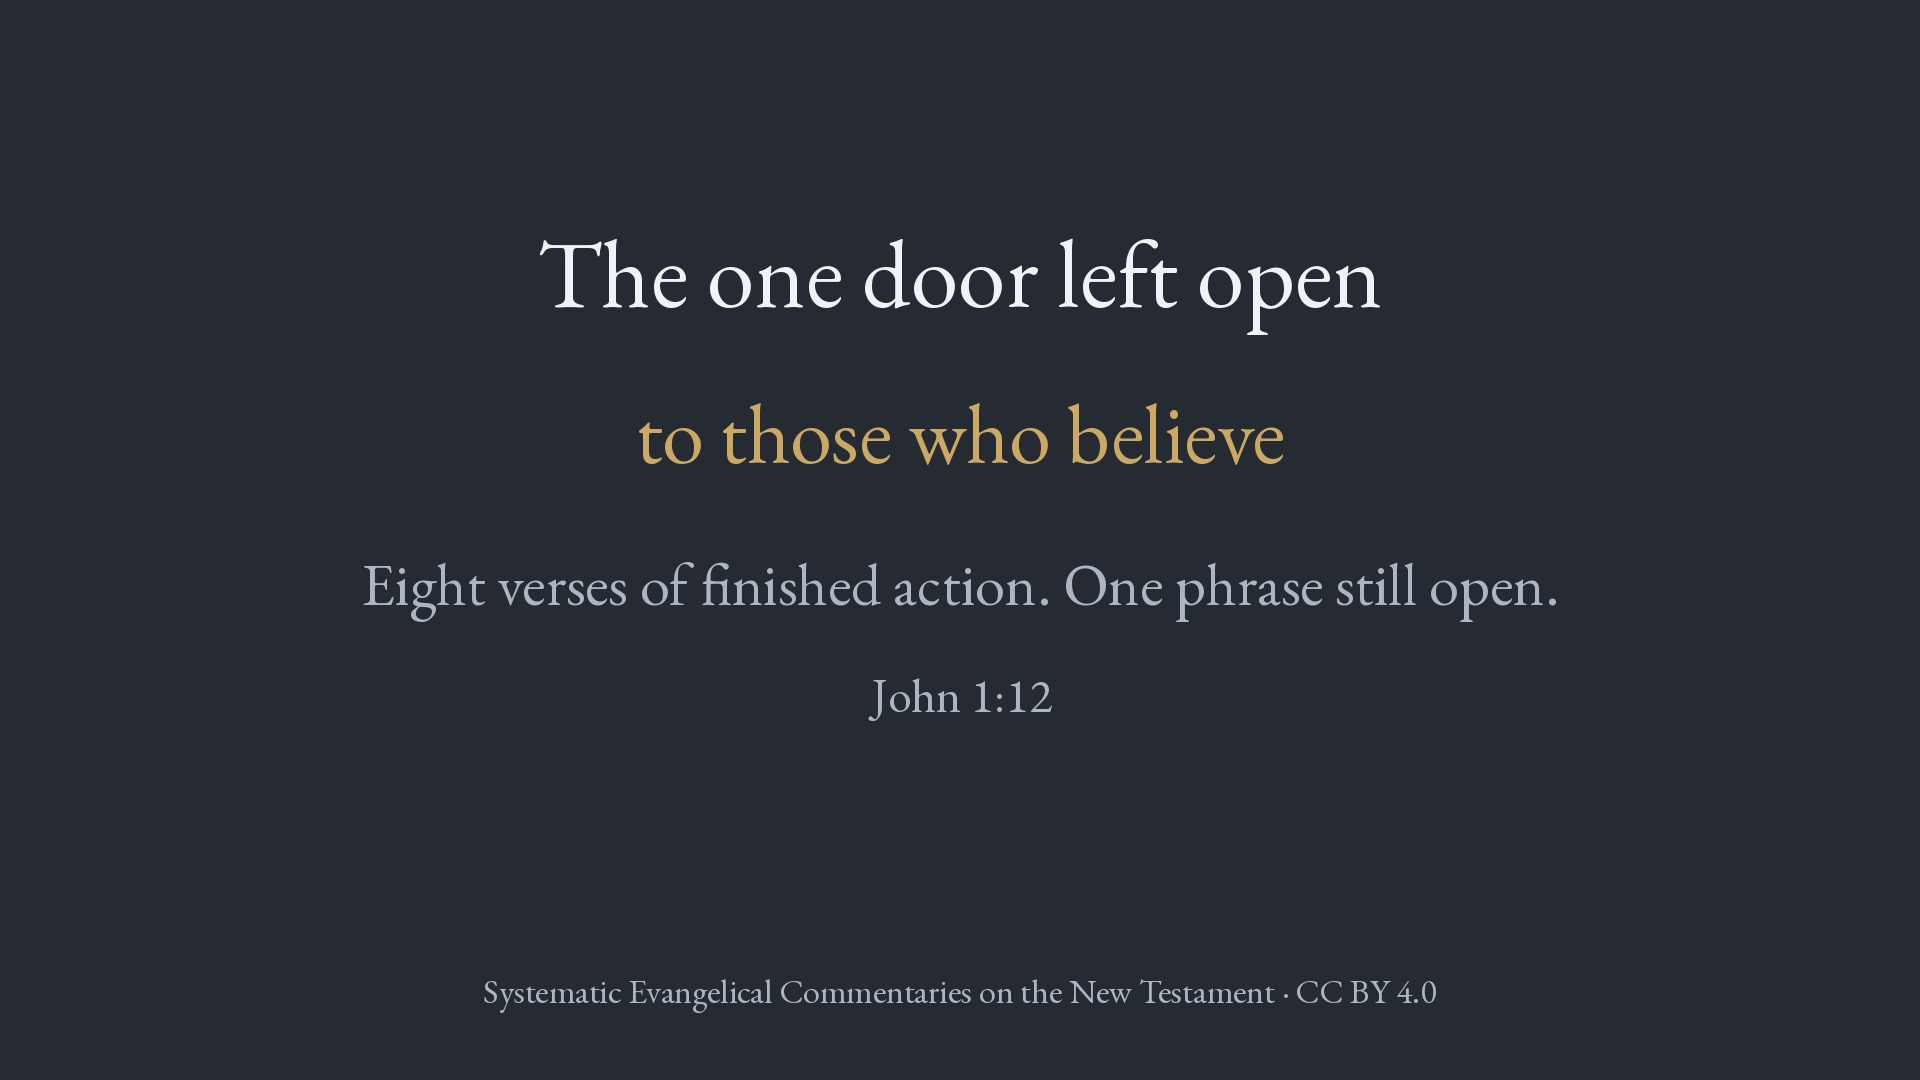
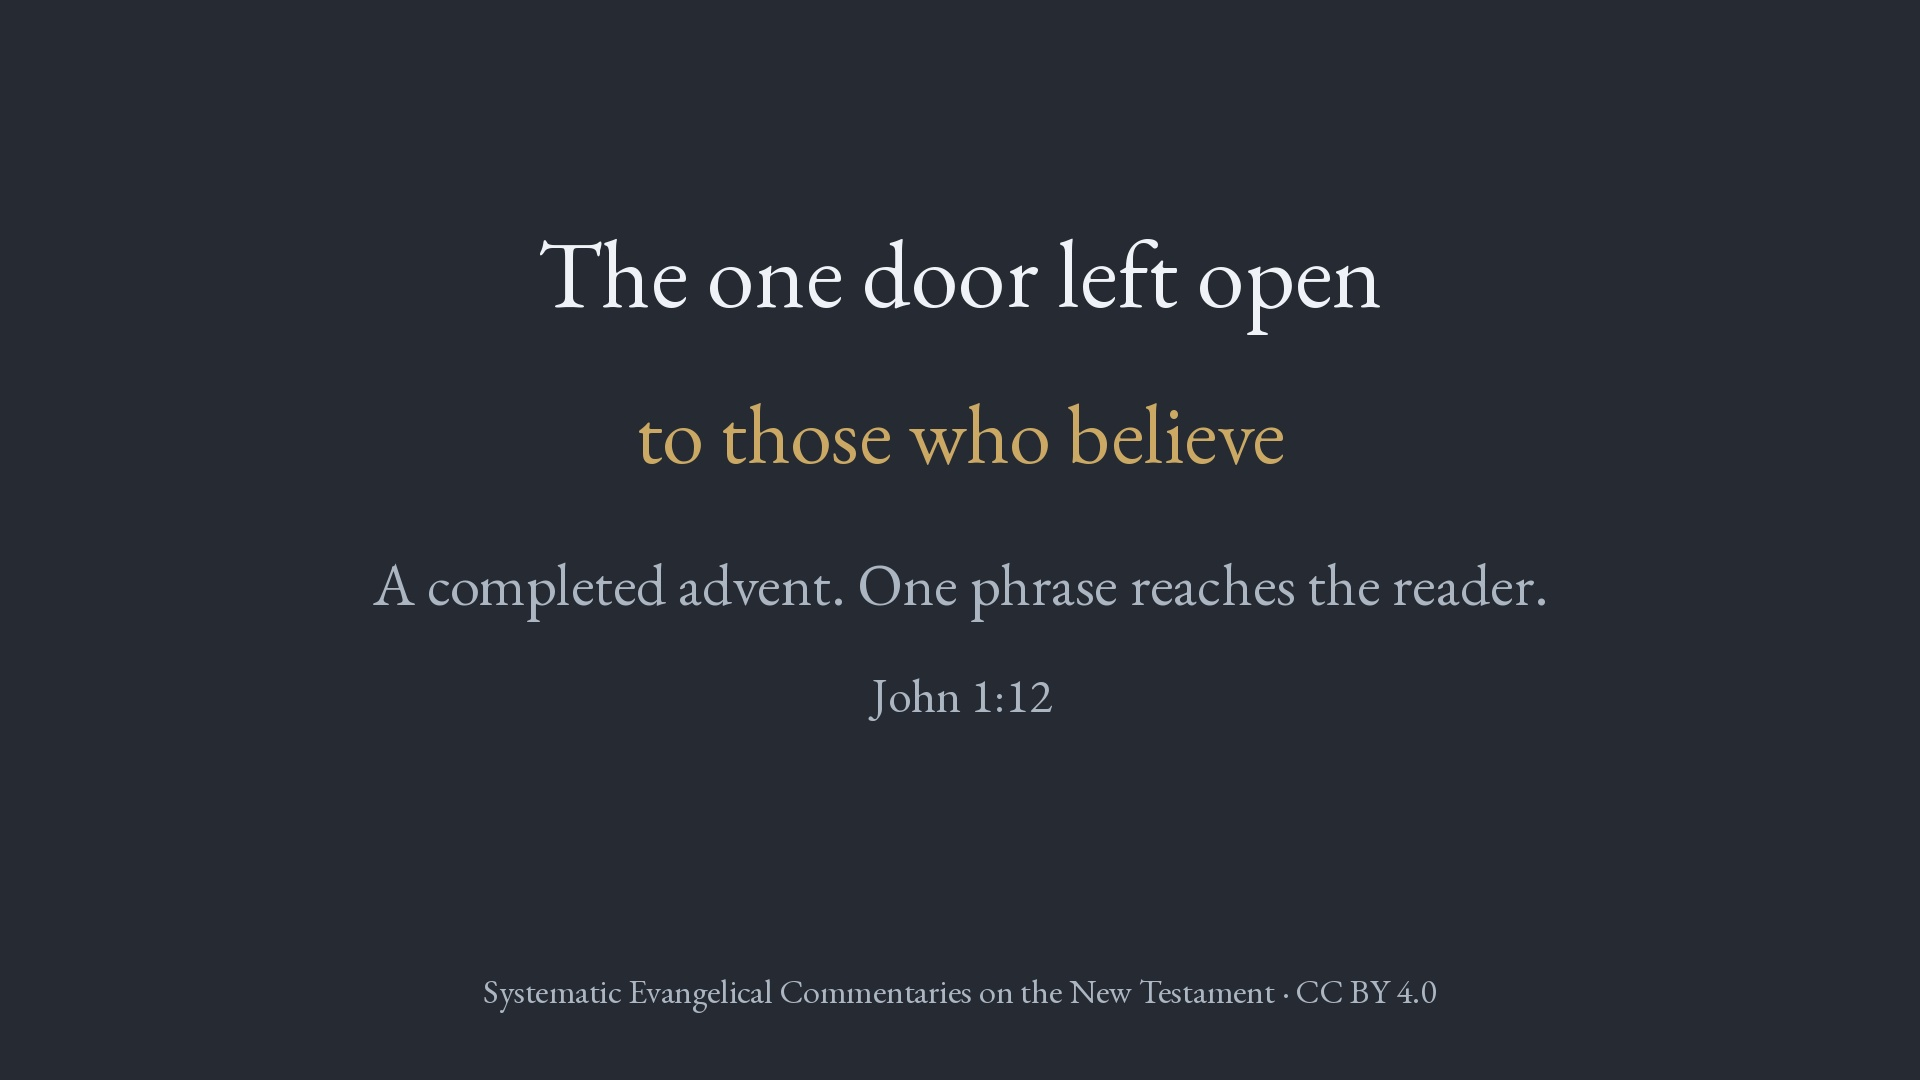
Aid jn1-031 rewritten to the time-reference claim; 16:9 re-rendered (RBM-19 follow-up 5, item 4)
The aid "The one door left open" rested on a form claim RBM-19 found false.
Its body is rewritten to the ruled form, and it is now identical to the
corpus master (Diptychs/09-architectural-implications/Jn1_613_Aid_10_Page.md).
The 16:9 body line now reads "A completed advent. One phrase reaches the
reader." Only that band is redrawn, and the file keeps the published
quantization tables. imageAlt is conformed. The 9:16 is untouched, and the
frontmatter is otherwise unchanged (section, no draft, no scheduled).

Authorized by: the Editor, pair 22 ("2 as recommended"; text "1-6 as
recommended"), 8 October 2026.

Base: 69b36bb

Claude-Session: https://claude.ai/code/session_01PRQukPCiW1RZyHeeyN8LtK

Changed region(s): [[0.1875, 0.5194, 0.7812, 0.5806]]

diff --git a/src/content/slides/31-jn1-031.md b/src/content/slides/31-jn1-031.md
@@ -3,24 +3,26 @@ title: "The one door left open"
 description: "Projectable slide and teaching notes from the SECNT commentary on John 1:6–13 — The one door left open"
 section: john/1-6-to-13/09-architectural-implications
 audience: familiar-with-scripture
-imageAlt: "Slide on a flat dark slate field, with no imagery anywhere on it. Across the upper part of the frame, a single-line headline in pale type: The one door left open. Below it, set smaller and in gold, the words to those who believe. Beneath that, one line of grey type reading Eight verses of finished action. One phrase still open. Under that, small and grey, the reference John 1:12. Nothing else on the frame but the attribution line along the bottom."
+imageAlt: "Slide on a flat dark slate field, with no imagery anywhere on it. Across the upper part of the frame, a single-line headline in pale type: The one door left open. Below it, set smaller and in gold, the words to those who believe. Beneath that, one line of grey type reading A completed advent. One phrase reaches the reader. Under that, small and grey, the reference John 1:12. Nothing else on the frame but the attribution line along the bottom."
 license: CC-BY-4.0
 ---
 
-Read John 1:6–13 once more and watch nothing but the verbs. A man came. He came to bear witness. The light was in the world. The world did not know him. He came to his own, and his own did not welcome him. As many as received him were given a right. They were begotten of God. **Every one of those is finished** — told, closed, behind us. Eight verses of completed action.
+Read John 1:6–13 once more and watch nothing but the verbs. A man came. He came to bear witness. The light was in the world. The world did not know him. He came to his own, and his own did not welcome him. As many as received him were given a right. They were begotten of God. **Every verb in that list is past.** Together they tell an advent already complete, told from its far side.
 
-**Except one phrase.** At the end of the turn, where the passage says the right is given *to those who believe in his name*, the verb stops being past. τοῖς πιστεύουσιν (*to those who believe*) is a present, and it is the only place in these eight verses where the passage leaves off narrating and faces the reader.
+**Except one phrase.** At the end of the turn, where the passage says the right is given *to those who believe in his name*, the telling reaches past itself. τοῖς πιστεύουσιν (*to those who believe*) is a present participle, and the time it names is not the story's time but the reader's. It is the one verb in the movement whose time reaches the reader's present, and the only place in these eight verses where the passage leaves off narrating and faces the reader.
+
+**Two other verbs here are present in form, and it is worth knowing why neither does the same work.** At verse 9 the light was *coming* into the world. That participle gives the manner of the advent inside the long *was* of the verse, and it does not reach forward to the reader. At the same verse the light *enlightens* every human being. The commentary reads that verb as naming what the light does as light, not as fixing a time. That reading is contested: Bultmann and Michaels both take its present as reaching the evangelist's own day, and the commentary sets the disagreement out. So what to look for is not a present form. It is a time that reaches you.
 
 Look at where it sits, because the placement is the teaching. It is not at the light's shining. It is not at the refusal, which is where a preacher's instinct would put it and where the passage's weight seems to fall. **It is at the reception, and nowhere else.** The evangelist tells you about an advent that is already complete, leaves exactly one thing open, and the one thing he leaves open is the door you may walk through.
 
-**Our research concludes that this placement is composed rather than incidental**, and the ground is the tense itself. A passage that meant to leave several doors open would not have told everything else as done. The single present is conspicuous precisely because it stands alone in a movement narrated wholly in retrospect — the coming finished, the refusal finished, even the begetting finished. That is held with high confidence, and it rests on the shape of the passage rather than on any one reader's judgement about it.
+**Our research concludes that this placement is composed rather than incidental**, and the ground is the shape of the passage at that point. The phrase stands in the sentence where the asyndeton breaks: from the Prologue's opening each new sentence begins without a connecting particle, except the one that opens verse 12, *but as many as*, as McHugh counts them. It stands just past the point where, as Carson observes, the words handed from line to line give out and the pace rises. It falls inside the two verses Barth hears as the Prologue's first climax. And it is the phrase the Gospel's last sentence answers: *to those who believe in his name* here, *that believing you may have life in his name* at the book's close. None of these was noticed in order to find a door. Together they show that the passage's one opening onto the reader's present was set where the movement turns and where the book's ending looks back. That is held with very high confidence, and it rests on the shape of the passage rather than on any one reader's judgement about it.
 
-**There is a refinement, and it belongs to the teaching rather than qualifying it.** This movement is told from the far side of a completed advent, which is what makes the one present visible at all. In the Prologue's first movement the balance runs the other way — the light *shines*, in the present, and the summary is the completed thing. **The slide does not carry this and a teacher does not need it.** It is here because it is why the reading holds: the open phrase is not an accident of Greek but the one exception in a passage built out of finished things.
+**There is a refinement, and it belongs to the teaching rather than qualifying it.** This movement is told from the far side of a completed advent, which is what makes its one opening onto the reader visible at all. The commentary observes that the Prologue's first movement may run the other way, with the light that *shines* in the present and the summary as the completed thing, but it offers that comparison as its own observation, and it turns on the contested reading of *enlightens*. **The slide does not carry this and a teacher does not need it.** It is here because it is why the reading holds: the open phrase is not an accident of Greek but the one opening in a passage told as a finished advent.
 
-*For the teacher, the shape of it in three steps.* First, **read the passage aloud and have them count the finished verbs** — came, was, knew not, received, were begotten. Doing it out loud is most of the work, because the pattern is obvious once heard and invisible on the page. Second, **stop at "to those who believe" and name what changed.** Not the meaning; the tense. Third, **ask where it sits** — not at the shining, not at the refusal, but at the receiving. That is the part they will still have on Tuesday.
+*For the teacher, the shape of it in three steps.* First, **read the passage aloud and have them listen for when each thing happens**: came, was, knew not, received, were begotten. Doing it out loud is most of the work, because the pattern is obvious once heard and invisible on the page: this is a story told as done. Second, **stop at "to those who believe" and name what changed.** Not the meaning; the time. Everything before it happened then, and this reaches whoever is listening now. Third, **ask where it sits**: not at the shining, not at the refusal, but at the receiving. That is the part they will still have on Tuesday.
 
-*What this page does not do, said plainly.* It does not exegete verse 12, or take up what the right amounts to, or what it means to become a child of God — each has its own treatment in the commentary. It does not argue what the begetting of verse 13 is. It does not claim that the believing is the passage's achievement; the passage keeps God's act for its last word, which is a different point and belongs with it. And **it does not claim the open phrase is hidden.** It is in every translation. The claim is that its placement is deliberate, and that a reader who notices where it falls has understood something about how the passage was built.
+*What this page does not do, said plainly.* It does not exegete verse 12, or take up what the right amounts to, or what it means to become a child of God; each has its own treatment in the commentary. It does not argue what the begetting of verse 13 is. It does not settle the time of *enlightens* at verse 9; the commentary sets that out with the disagreement. It does not claim that the believing is the passage's achievement; the passage keeps God's act for its last word, which is a different point and belongs with it. And **it does not claim the open phrase is hidden.** It is in every translation. The claim is that its placement is deliberate, and that a reader who notices where it falls has understood something about how the passage was built.
 
 ## Pedagogical task
 
-This slide's job is to **move one phrase from the middle of a verse to the centre of attention**, not to teach a doctrine of faith. Your people are not confused about "to those who believe"; they have simply never been shown that it is the only thing in the passage still open. So project it and do the one thing it licenses: read the verbs, let them hear that all of them are done, and then stop at the one that is not. **Do not preach the believing from the front.** The moment this becomes an appeal, the observation is spent and the passage's own restraint is lost — and the restraint is the point. Do not take up what being born of God means; that is a study of its own and it will swallow the time. And **do not oversell it**: this is not a recovered reading. It is the ordinary shape of the passage, seen. **Two downloads, two jobs.** The **16:9 carries the whole move** — the claim, the phrase from the verse, and the reason — and it is the one to project while you teach from it. The **9:16 carries the title and the reference alone**, which makes it the one for a newsletter or a bulletin column with your own writing beneath it.
+This slide's job is to **move one phrase from the middle of a verse to the centre of attention**, not to teach a doctrine of faith. Your people are not confused about "to those who believe"; they have simply never been shown that it is the only thing in the passage still open. So project it and do the one thing it licenses: read the verbs, let them hear the story told as done, and then stop at the one phrase that reaches them. **Do not preach the believing from the front.** The moment this becomes an appeal, the observation is spent and the passage's own restraint is lost — and the restraint is the point. Do not take up what being born of God means; that is a study of its own and it will swallow the time. And **do not oversell it**: this is not a recovered reading. It is the ordinary shape of the passage, seen. **Two downloads, two jobs.** The **16:9 carries the whole move** — the claim, the phrase from the verse, and the reason — and it is the one to project while you teach from it. The **9:16 carries the title and the reference alone**, which makes it the one for a newsletter or a bulletin column with your own writing beneath it.
